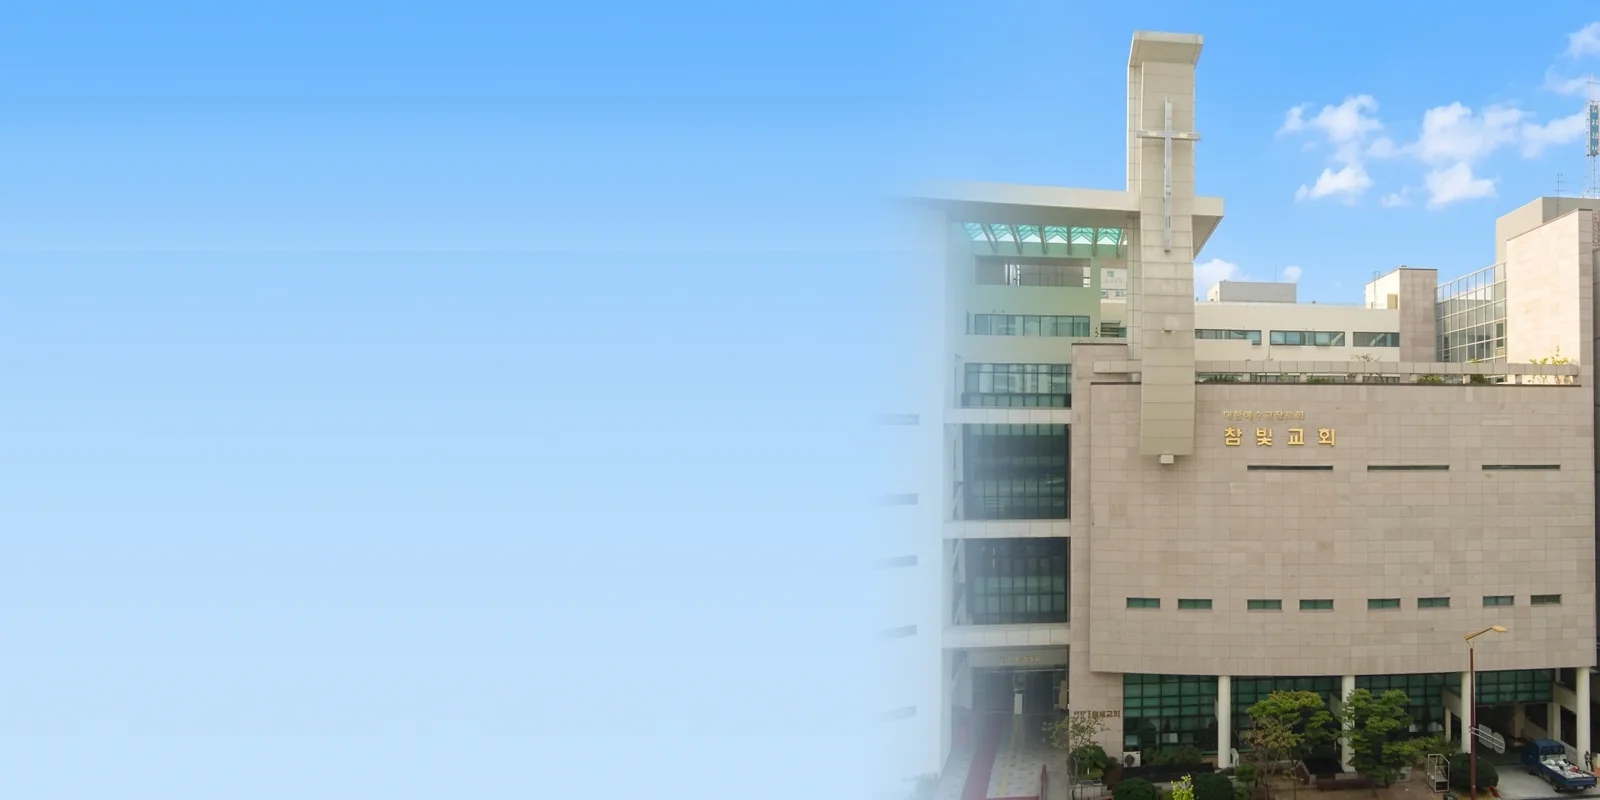
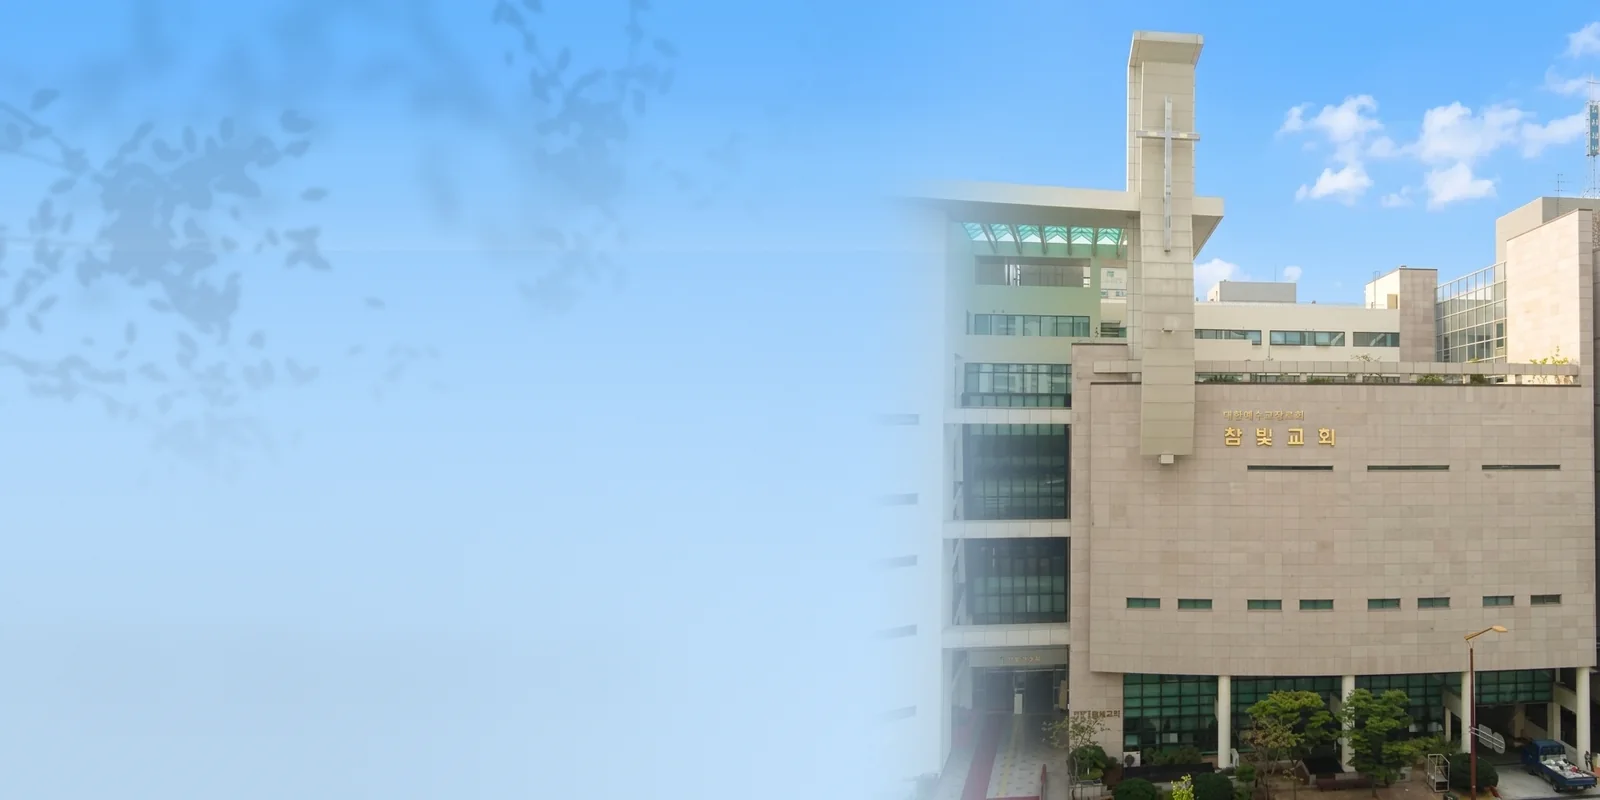
오시는길밤 나무그림자개선

diff --git a/frontend/scripts/build_visit_hero.py b/frontend/scripts/build_visit_hero.py
@@ -13,7 +13,7 @@ import sys
 from pathlib import Path
 
 import numpy as np
-from PIL import Image
+from PIL import Image, ImageDraw, ImageFilter
 
 ROOT = Path(__file__).resolve().parents[1]
 VISIT = ROOT / 'public' / 'images' / 'visit'
@@ -28,6 +28,74 @@ SKY_X = (540, 600)   # 순수 하늘 샘플 열(원본 좌표, 십자가 탑 오
 SKY_Y = 330          # 이 행까지가 순수 하늘
 # 지평선 쪽 외삽 감쇠 — 낮은 옅게 밝아져도 자연스럽지만 밤은 남색을 지켜야 회보라로 바래지 않는다
 DAMP = {'day': 0.35, 'night': 0.10}
+# 먼 도시 보케: zoom=캔버스 높이 대비 확대, blur=흐림 반경, hi_from 이상 밝기만 점광(glow·warm 색),
+# lo_to 이하 어둠은 shade 만큼 눌러 건물 실루엣
+BOKEH = {
+    'day': dict(zoom=1.4, blur=30, hi_from=0.80, glow=0.0, warm=(255, 250, 235), lo_to=0.45, shade=0.04),
+    'night': dict(zoom=1.4, blur=16, hi_from=0.40, glow=0.5, warm=(214, 178, 118), lo_to=0.16, shade=0.26),
+}
+# 잎 실루엣: rx·ry=왼쪽 위 기준 타원 마스크 반경(화면 비율), alpha=최대 농도, darken=실루엣 색(하늘색×배율)
+FOLIAGE = {
+    'day': dict(rx=0.58, ry=0.70, alpha=0.55, darken=0.80, vignette=0.06),
+    'night': dict(rx=0.58, ry=0.70, alpha=0.92, darken=0.50, vignette=0.22),
+}
+
+def foliage_mask(w, h, seed=0):
+    """왼쪽 위 모서리에서 늘어지는 가지+잎 실루엣(0~1 마스크). 두 겹(앞:많이 흐림, 중간:조금 흐림)."""
+    rng = np.random.default_rng(seed)
+
+    def bezier(p0, p1, p2, n=40):
+        t = np.linspace(0, 1, n)[:, None]
+        return (1 - t) ** 2 * p0 + 2 * (1 - t) * t * p1 + t ** 2 * p2
+
+    def draw_layer(n_branches, leaf_r, blur, width):
+        img = Image.new('L', (w, h), 0)
+        d = ImageDraw.Draw(img)
+        for _ in range(n_branches):
+            # 시작점: 위쪽 가장자리(왼쪽 55%) 또는 왼쪽 가장자리(위 60%)
+            if rng.random() < 0.6:
+                p0 = np.array([rng.uniform(-0.05, 0.55) * w, rng.uniform(-0.08, 0.02) * h])
+                ang = rng.uniform(np.pi * 0.25, np.pi * 0.75)     # 아래쪽으로
+            else:
+                p0 = np.array([rng.uniform(-0.06, 0.0) * w, rng.uniform(0.0, 0.6) * h])
+                ang = rng.uniform(-np.pi * 0.25, np.pi * 0.35)    # 오른쪽으로
+            length = rng.uniform(0.28, 0.5) * h
+            p2 = p0 + length * np.array([np.cos(ang), np.sin(ang)])
+            p1 = (p0 + p2) / 2 + rng.normal(0, 0.12 * length, 2)
+            pts = bezier(p0, p1, p2)
+            for i in range(len(pts) - 1):
+                wd = max(1, width * (1 - i / len(pts)))
+                d.line([tuple(pts[i]), tuple(pts[i + 1])], fill=255, width=int(wd))
+            # 잔가지
+            for _ in range(rng.integers(2, 4)):
+                k = rng.integers(len(pts) // 4, len(pts) - 2)
+                q0 = pts[k]
+                a2 = ang + rng.uniform(-0.9, 0.9)
+                l2 = length * rng.uniform(0.25, 0.5)
+                q2 = q0 + l2 * np.array([np.cos(a2), np.sin(a2)])
+                q1 = (q0 + q2) / 2 + rng.normal(0, 0.12 * l2, 2)
+                sub = bezier(q0, q1, q2, 20)
+                for i in range(len(sub) - 1):
+                    d.line([tuple(sub[i]), tuple(sub[i + 1])], fill=255, width=max(1, int(width * 0.45 * (1 - i / 20))))
+                pts = np.concatenate([pts, sub])
+            # 잎: 가지를 따라 무리로
+            for c in pts[::3]:
+                if rng.random() < 0.55:
+                    continue
+                for _ in range(rng.integers(2, 6)):
+                    cx, cy = c + rng.normal(0, leaf_r * 1.6, 2)
+                    rr = leaf_r * rng.uniform(0.6, 1.3)
+                    th = rng.uniform(0, np.pi)
+                    # 잎 모양: 양끝이 뾰족한 렌즈꼴 폴리곤
+                    tt = np.linspace(0, 2 * np.pi, 14)
+                    ex, ey = rr * np.cos(tt), rr * 0.45 * np.sin(tt) * (1 - 0.25 * np.abs(np.cos(tt)))
+                    poly = [(cx + ex[j] * np.cos(th) - ey[j] * np.sin(th), cy + ex[j] * np.sin(th) + ey[j] * np.cos(th)) for j in range(len(tt))]
+                    d.polygon(poly, fill=255)
+        return np.asarray(img.filter(ImageFilter.GaussianBlur(blur))).astype(np.float32) / 255
+
+    front = draw_layer(3, leaf_r=22, blur=9, width=13)    # 카메라 바로 앞 — 크고 많이 흐림
+    mid = draw_layer(10, leaf_r=12, blur=2.5, width=6)        # 조금 뒤 — 형태가 보임
+    return np.clip(front * 0.7 + mid, 0, 1)
 
 
 def smoothstep(t):
@@ -52,6 +120,41 @@ for key, path in SRC.items():
     ext = bot[None, :] + slope[None, :] * (rest * (1 - (1 - t) ** 2) * DAMP[key])[:, None]
     grad = np.clip(np.concatenate([grad, ext], axis=0), 0, 255)
     canvas = np.repeat(grad[:, None, :], W, axis=1)
+
+    # ── 왼쪽 여백을 '심도 흐림 장면'으로: 단색 하늘은 밋밋하다는 피드백(2026-09-03) ──
+    yy, xx = np.mgrid[0:H, 0:W]
+    fx, fy = xx / W, yy / H
+    left_mask = 1 - smoothstep((fx - 0.28) / 0.30)          # 왼쪽에서 교회 쪽으로 사라지는 가중치
+
+    # (1) 먼 도시 보케: 사진을 좌우 반전·확대·강하게 흐린 뒤, 밝은 부분(불 켜진 창)만 따뜻한
+    #     점광으로 얹고 어두운 덩어리는 살짝만 눌러 '멀리 흐릿한 건물 실루엣'을 만든다.
+    #     흐린 사진을 통째로 깔면 회색 안개가 되므로(검증됨) 하이라이트·섀도만 쓴다
+    bk = BOKEH[key]
+    big = im.transpose(Image.FLIP_LEFT_RIGHT)
+    bh = int(H * bk['zoom'])
+    big = big.resize((round(big.width * bh / big.height), bh), Image.LANCZOS)
+    big = big.filter(ImageFilter.GaussianBlur(bk['blur']))
+    lum = np.asarray(big.convert('L')).astype(np.float32) / 255
+    lum = lum[bh - H:, :W] if lum.shape[1] >= W else np.pad(lum[bh - H:], ((0, 0), (0, W - lum.shape[1])), mode='edge')
+    band = smoothstep((fy - 0.30) / 0.25) * (1 - smoothstep((fy - 0.80) / 0.15))   # 화면 중간~아래 띠
+    hi = np.clip((lum - bk['hi_from']) / (1 - bk['hi_from']), 0, 1) * band * left_mask
+    lo = np.clip((bk['lo_to'] - lum) / bk['lo_to'], 0, 1) * band * left_mask
+    warm = np.array(bk['warm'], np.float32)[None, None, :]
+    canvas = canvas * (1 - bk['shade'] * lo[..., None])
+    canvas = canvas + (warm - canvas) * (bk['glow'] * hi)[..., None]
+
+    # (2) 초점 밖 잎·가지 실루엣(절차적): 왼쪽 위 모서리에서 늘어진 가지에 잎을 흩뿌리고 흐린다.
+    #     사진의 나무를 잘라 쓰면 창문 격자가 딸려와 어색하다(검증됨)
+    fl = FOLIAGE[key]
+    sil = foliage_mask(W, H, seed=11)
+    r = np.sqrt((fx / fl['rx']) ** 2 + (fy / fl['ry']) ** 2)
+    sil = sil * (1 - smoothstep((r - 0.5) / 0.5)) * fl['alpha']
+    canvas = canvas * (1 - sil[..., None]) + (canvas * fl['darken']) * sil[..., None]
+
+    # (3) 글자 자리 바닥·왼쪽 모서리를 살짝 눌러 텍스트가 뜨게
+    vig = (1 - fl['vignette'] * smoothstep((fy - 0.45) / 0.55) * (1 - smoothstep((fx - 0.15) / 0.45)))[..., None]
+    canvas = canvas * vig
+
     canvas += np.random.default_rng(7).normal(0, 1.2, canvas.shape)  # 밴딩 방지 노이즈
 
     # 교회 레이어: 높이 H 에 맞춰 축소, 오른쪽 정렬, 왼쪽 가장자리 페더
